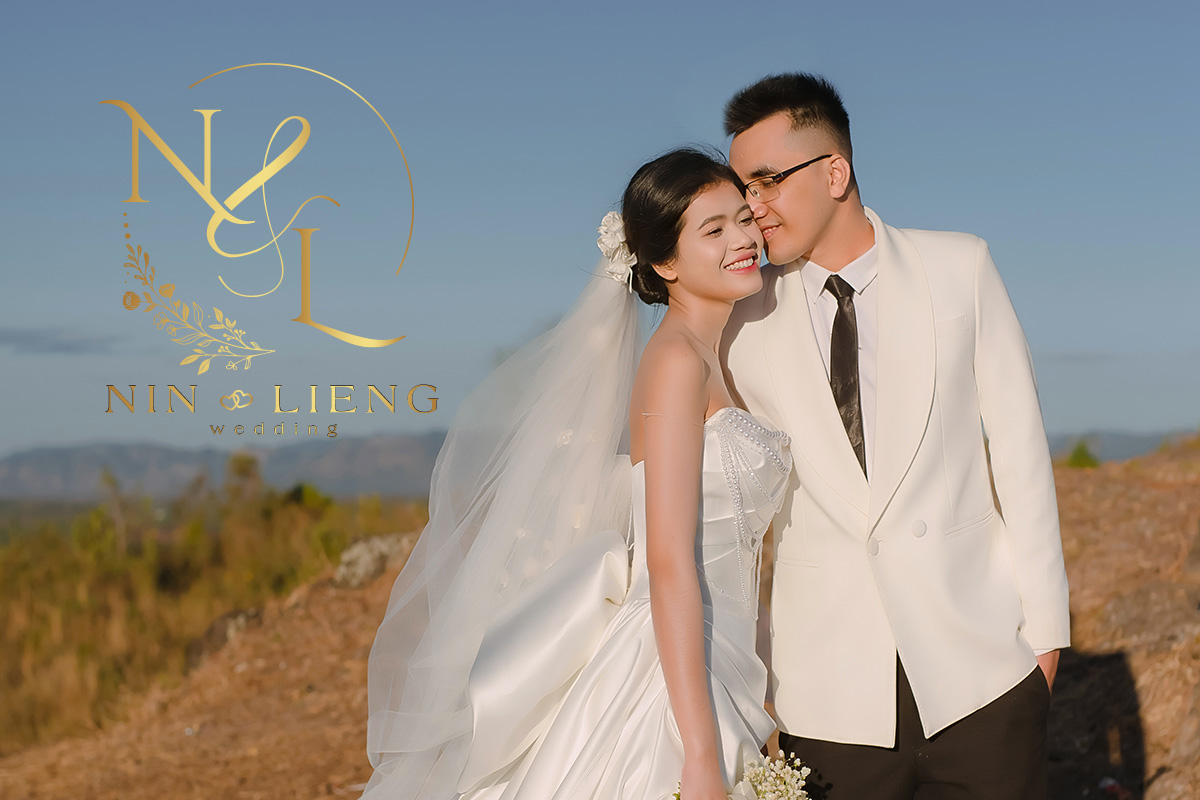
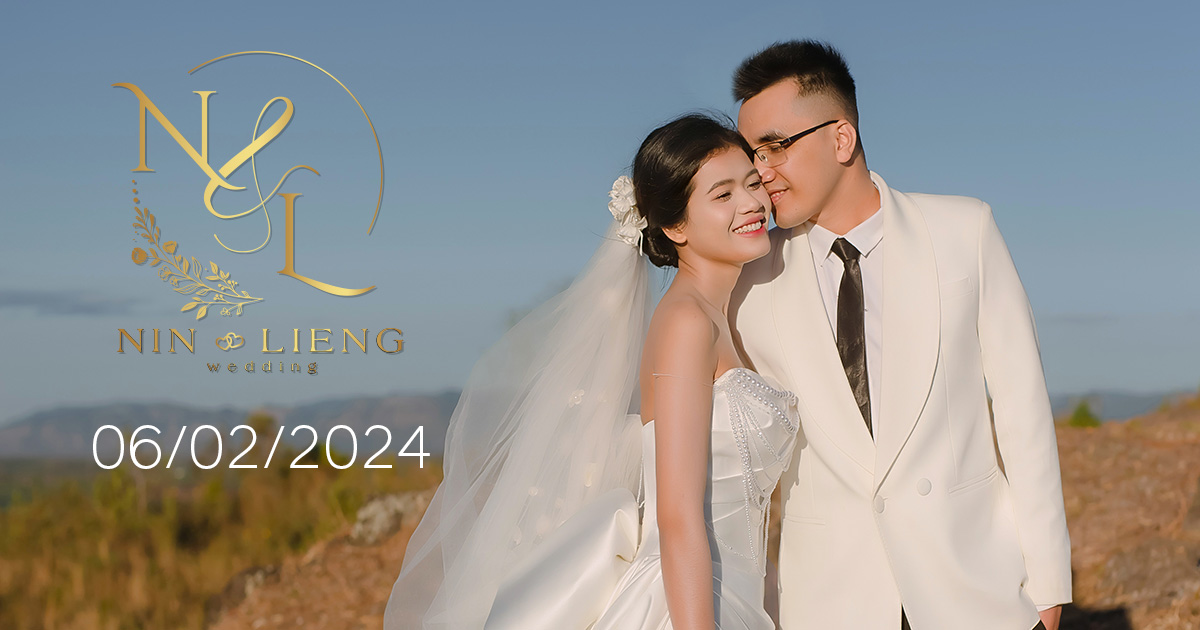
change imge

diff --git a/index.html b/index.html
@@ -10,15 +10,17 @@
         <meta name="keywords" content="Wedding" />
         <meta property="og:site_name" content="SIU Y NIN &amp; KSOR H' LIÊNG" />
         <meta property="og:type" content="website" />
-        <meta property="og:title" content="SIU Y NIN &amp; KSOR H' LIÊNG Wedding site!" />
         <meta property="og:url" content="https://ninliengwedding.online" />
-        <meta
-            property="og:description"
+        <meta property="og:title" content="SIU Y NIN &amp; KSOR H' LIÊNG | Thiệp mời!" />
+
+        <meta property="og:description"
             content="SIU Y NIN &amp; KSOR H' LIÊNG - Our wedding date: 2024-02-06 | Tình yêu không chỉ là một danh từ - nó là một động từ; nó còn hơn cả một cảm giác - đó là sự quan tâm, chia sẻ, giúp đỡ, hy sinh"
         />
         <meta property="og:image" content="templates/images/social.jpg" />
         <meta property="og:image:url" content="templates/images/social.jpg" />
         <meta property="og:image:secure_url" content="templates/images/social.jpg" />
+        <meta property="og:image:width" content="1200"/>
+        <meta property="og:image:height" content="630"/>    
         <!-- Fav and touch icons -->
         <link rel="shortcut icon" type="image/x-icon" href="templates/images/logo.png" />
         <link rel="manifest" href="templates/images/fav_touch_icons/manifest.json" />
@@ -815,7 +817,7 @@
                 var nameValue = url.searchParams.get("name");
                 // Hiển thị giá trị trong phần tử HTML
                 var outputElement = document.getElementById("output");
-                outputElement.textContent = "Kính mời " + nameValue + " đến dự đám cưới của chúng mình ";
+                outputElement.textContent = "Kính mời " + nameValue + " đến chung vui cùng gia đình chúng tôi!";
                 
                 var outputElement = document.getElementById("nameInput"); 
                 // Đặt giá trị vào thuộc tính 'value' của thẻ input
